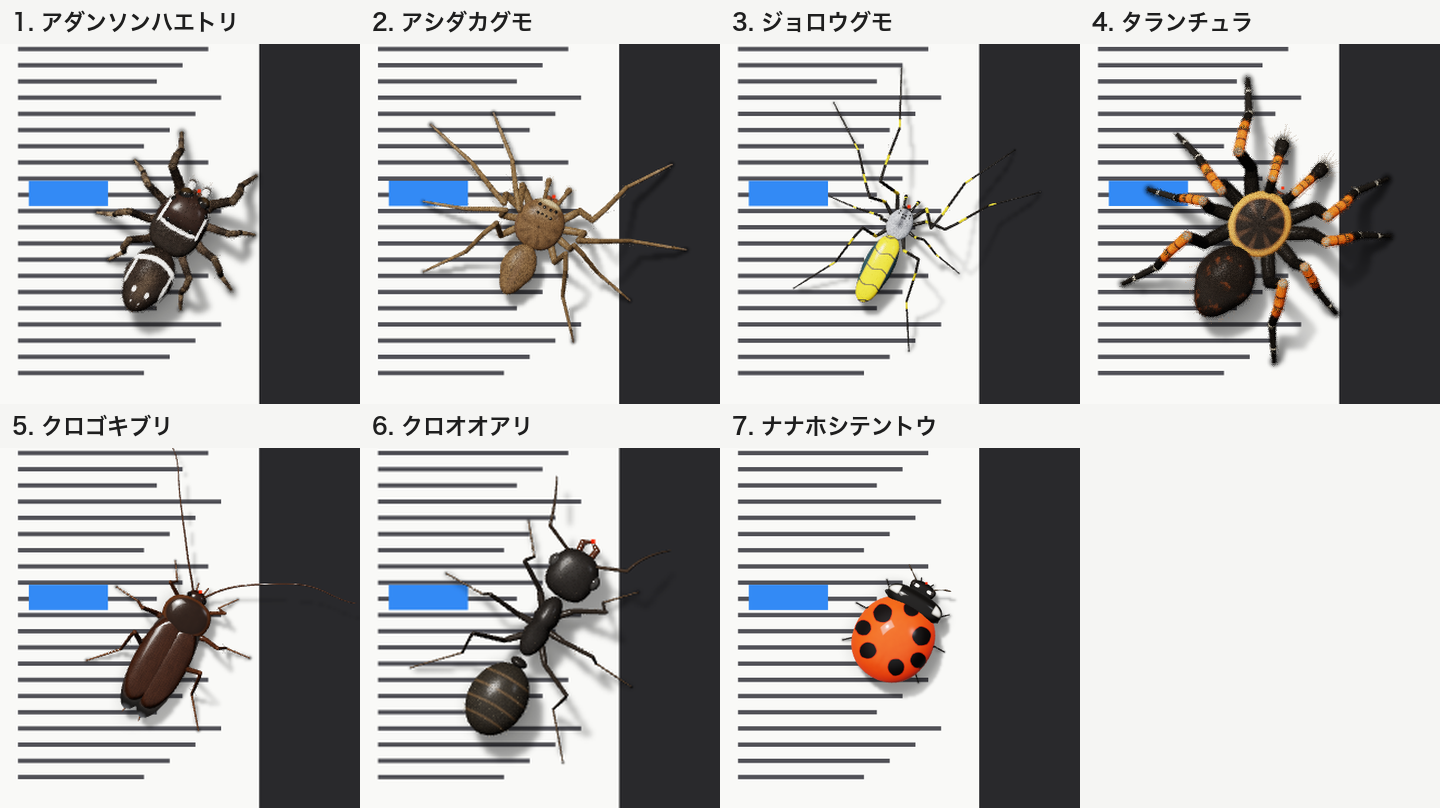
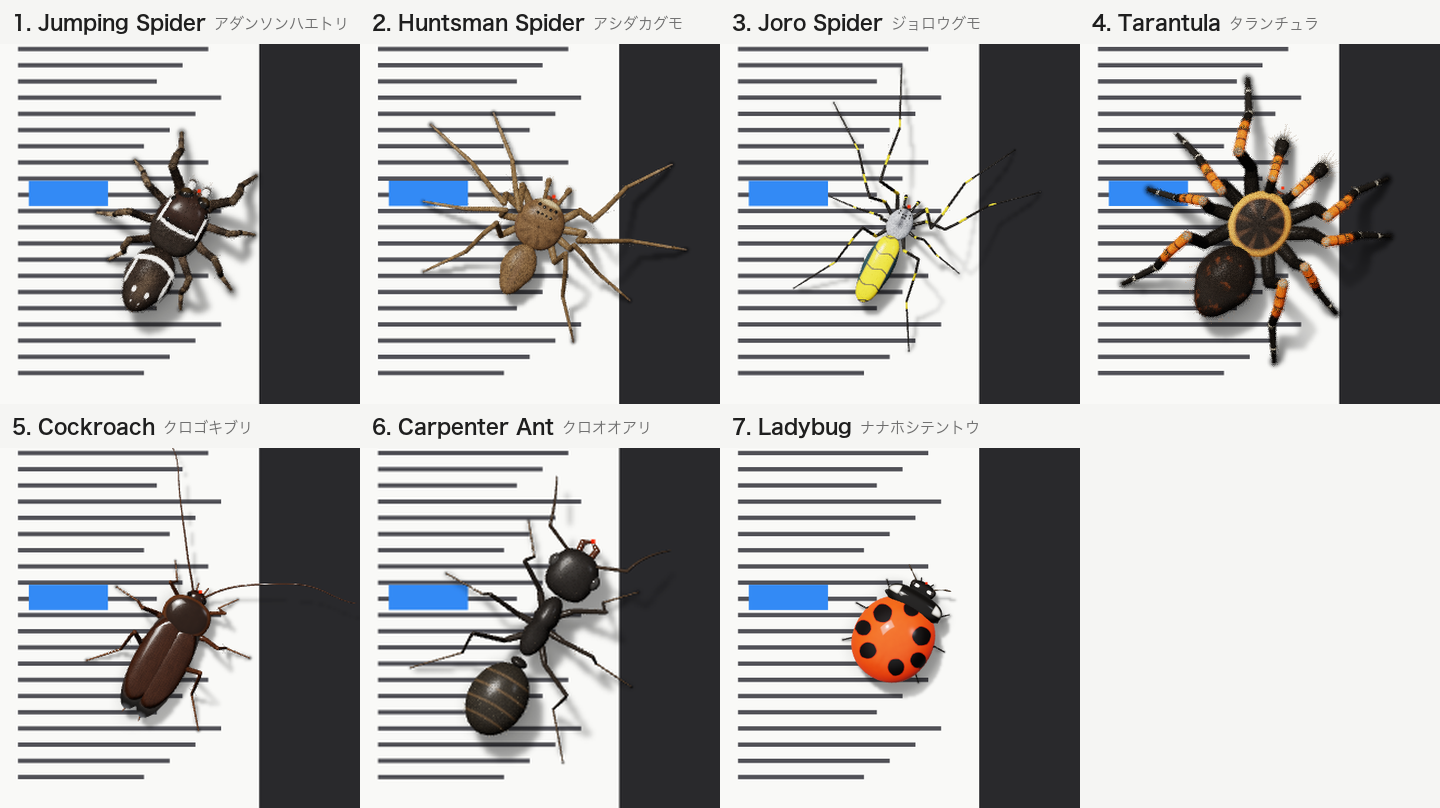
Embed demo GIF, bilingual creature lists

diff --git a/README.md b/README.md
@@ -6,10 +6,14 @@ They walk, jump, fly, and react when you click.
 Mac のマウスカーソルを、本物そっくりの虫や恐竜・乗り物にするアプリです（全12種）。
 歩いたり跳んだり飛んだりし、クリックするとアクションを起こします。
 
-https://github.com/chattan-mk/mushi-cursor/raw/main/docs/demo.mp4
+![Demo / デモ](docs/demo.gif)
 
-![Creatures](docs/creatures.png)
-![Others](docs/others.png)
+▶ [Full‑quality video (MP4) / 高画質の動画](docs/demo.mp4)
+
+### All 12 / 全12種
+
+![Bugs / 虫](docs/creatures.png)
+![Dinosaur & vehicles / 恐竜・乗り物](docs/others.png)
 
 ---
 
